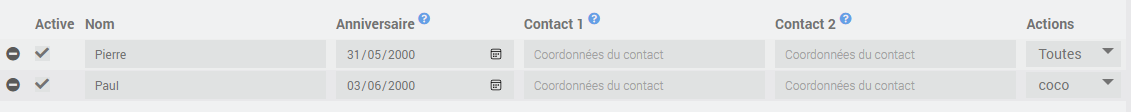
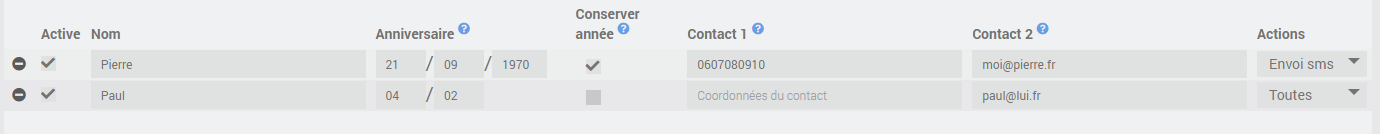
update

diff --git a/Birthday/fr_FR/index.md b/Birthday/fr_FR/index.md
@@ -51,10 +51,10 @@ Pour les options de la commande, vous pouvez utiliser les tags suivants, qui ser
 
 * `#eqId#` => numéro de l'équipement Anniversaire
 * `#eqName#` => nom de l'équipement Anniversaire
-* `#contactName#` => nom du contact
-* `#birthdayInfo#` => date d'anniversaire
-* `#contactDetail1#` => détail n°1 du contact
-* `#contactDetail2#` => détail n°2 du contact
+* `#birthdayName#` => nom du contact
+* `#birthdayDate#` => date d'anniversaire
+* `#birthdayContact1#` => détail n°1 du contact
+* `#birthdayContact2#` => détail n°2 du contact
 * `#age#` => âge à souhaiter
 
 # Anniversaires  
@@ -68,7 +68,8 @@ Pour ajouter un anniversaire, il faut simplement :
 * cliquer sur le bouton `Ajouter un anniversaire`
 * définir les éléments suivants :
   * le nom de la personne / évènement concerné
-  * la date anniversaire (ou autre) qu'on ne veut surtout pas oublier
+  * la date anniversaire (ou autre) qu'on ne veut surtout pas oublier au format `jj/mm/aaaa`
+    * Si vous ne connaissez pas l'année, vous avez la possibilité de ne pas la renseigner en décochant la case `conserver l'année`
   * Contact 1 : permet d'indiquer une première méthode pour contacter la personne (numéro de téléphone perso, email perso, ....) *  
   * Contact 2 : permet d'avoir une seconde méthode pour contacter la personne (numéro de téléphone pro, email pro, ....)  *  
   * Actions : liste les actions disponibles et pouvant être réalisées sur ce contact pour son anniversaire.
@@ -91,4 +92,9 @@ Aucune pour le moment.
 En cours d'étude :
 
 * Intégration d'un lien avec Facebook pour rappatrier les anniversaires des amis FB
-* Intégration d'un lien avec Google pour rappatrier les anniversaires des contacts Google
+* Intégration d'un lien avec Facebook pour rappatrier les anniversaires des amis FB
+
+## Est-il possible de récupérer automatiquement les infos sur FB ?
+
+Après plusiseurs tests et jours de recherche, Facebook n'autorise plus depuis quelques années à récupérer de façon automatique les anniversaires de ses propres amis. Les API ne permettent plus d'avoir accès à cette information.  
+Le plugin ne pourra donc pas créer automatiquement ces dates.  
